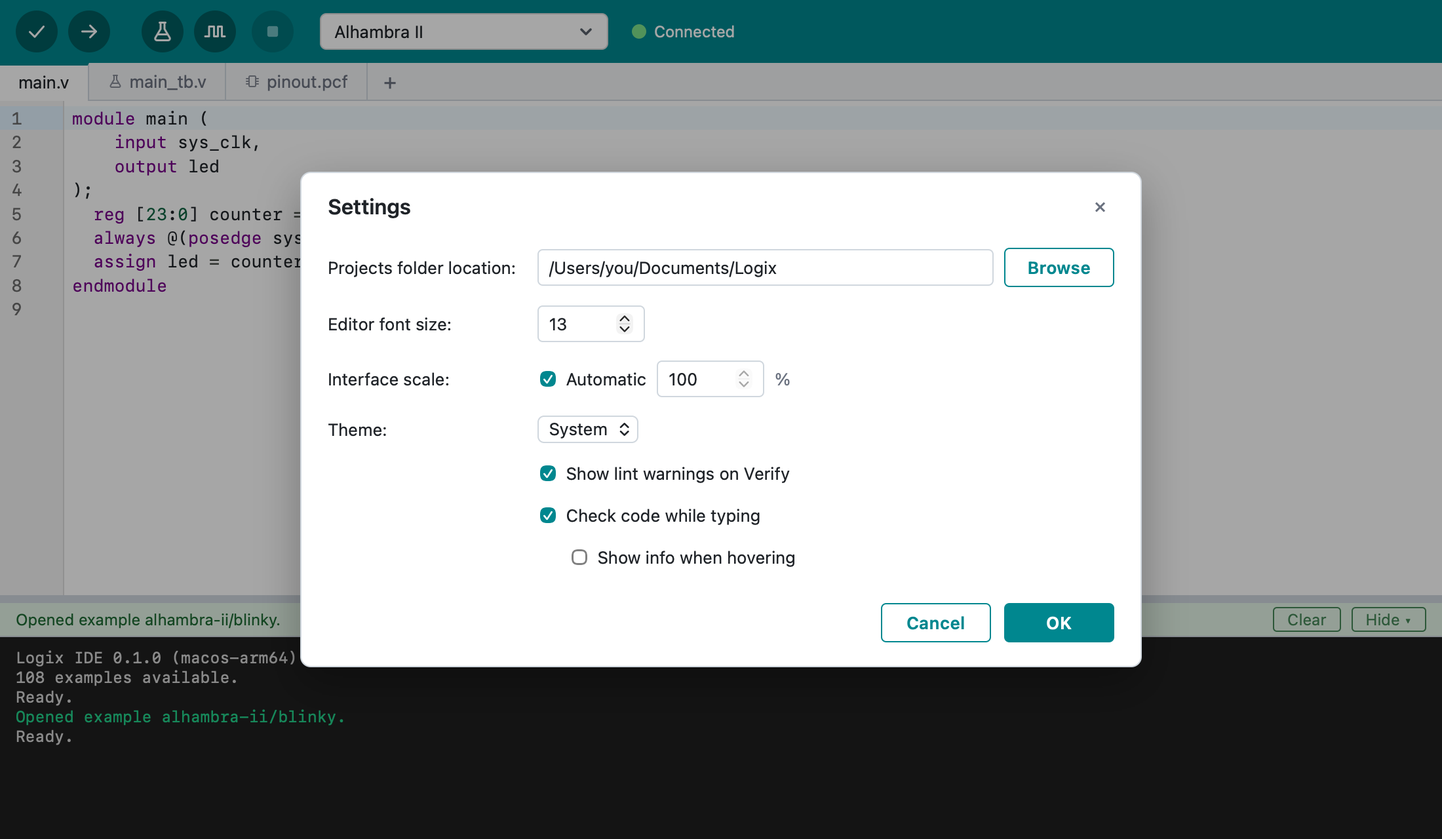
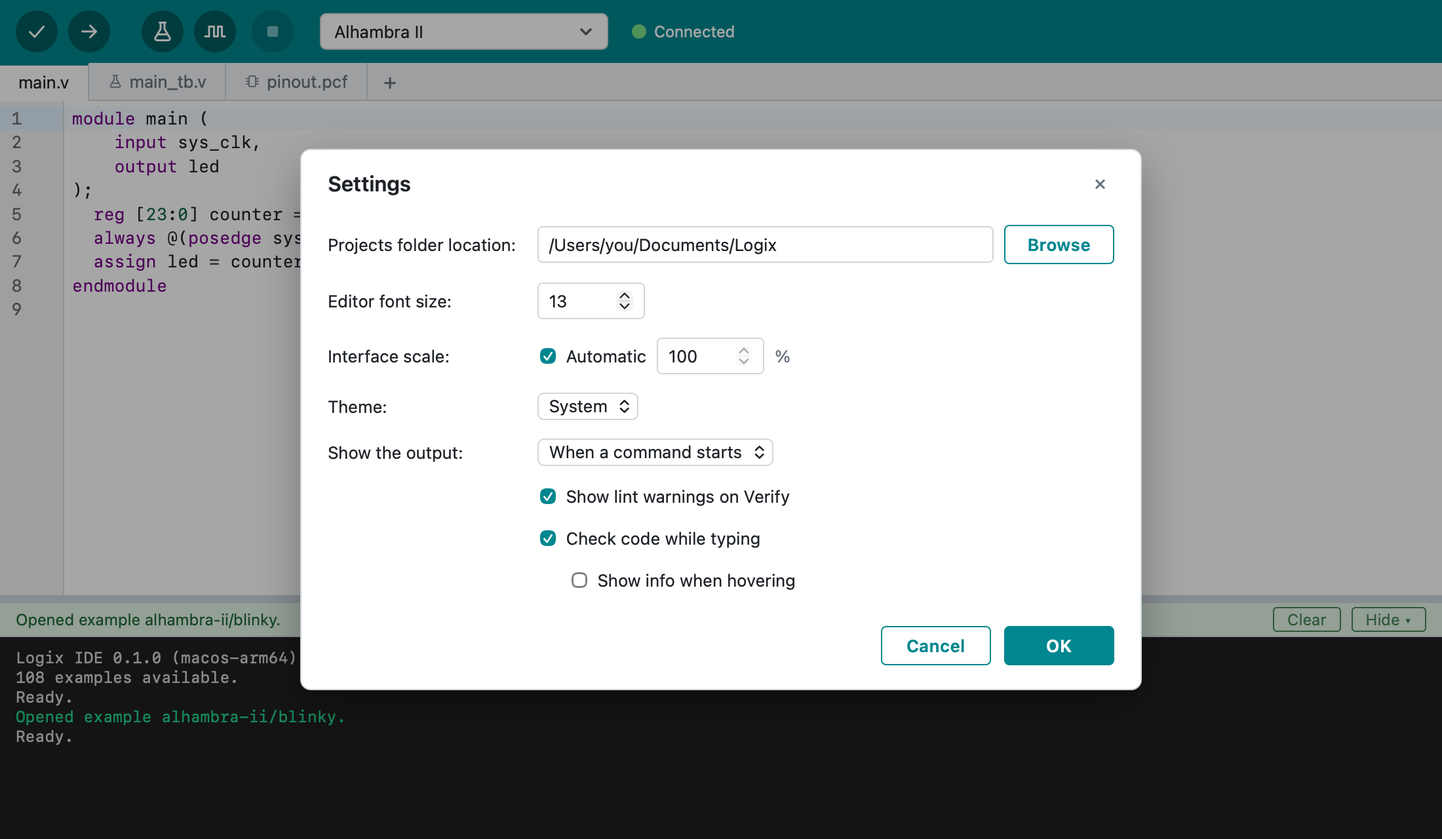
Setting: Show the output (when a command starts / only on errors / never)

diff --git a/ui/src/App.svelte b/ui/src/App.svelte
@@ -67,6 +67,7 @@
     clampConsoleHeight,
     DEFAULT_CONSOLE_HEIGHT,
     dragHidesConsole,
+    outputComesBack,
   } from "./lib/layout";
 
   const MAX_CONSOLE_LINES = 5000;
@@ -169,9 +170,14 @@
     }
   }
 
-  /** Shows the output, e.g. when a build starts or something fails. */
-  function showOutput() {
-    setConsoleVisible(true);
+  /**
+   * Shows the hidden output by itself when a command starts or something
+   * fails, as the "Show the output" setting says.
+   */
+  function showOutput(reason: "command" | "error") {
+    if (outputComesBack(prefs?.showOutput ?? "onCommand", reason)) {
+      setConsoleVisible(true);
+    }
   }
 
   // Keep the split valid when the window (or banner) changes size.
@@ -277,7 +283,7 @@
       const err = toUserError(e);
       setupError = err.message;
       log(`Error: ${err.details}`);
-      showOutput();
+      showOutput("error");
     }
   }
 
@@ -570,7 +576,7 @@
       // Old markers in this file no longer match its lines.
       const others = shownDiagnostics.filter((d) => d.file !== file);
       if (!result.ok || result.text === null) {
-        showOutput();
+        showOutput("error");
         showDiagnostics([...others, ...result.diagnostics]);
         const first = firstLocated(result.diagnostics);
         const why = first ?? result.diagnostics[0];
@@ -792,7 +798,7 @@
     taskStep = null;
     status = { text: runningText(task), kind: "info" };
     consoleLines = [];
-    showOutput();
+    showOutput("command");
     const which = testbench ? ` (${testbench})` : "";
     log(`${VERB[task]} ${p.name}${which} for ${boardName(board)}…`);
     try {
@@ -825,6 +831,7 @@
         diagram = { svg: outcome.graphSvg, module: testbench ?? "main" };
       }
       showDiagnostics(outcome.diagnostics);
+      if (!outcome.ok && !outcome.cancelled) showOutput("error");
       status = {
         text: outcomeText(task, outcome),
         kind: outcome.ok ? "ok" : outcome.cancelled ? "info" : "error",
@@ -841,6 +848,7 @@
       const err = toUserError(e);
       status = { text: err.message, kind: "error" };
       log(`Error: ${err.details}`);
+      showOutput("error");
     } finally {
       running = null;
       taskStep = null;

diff --git a/ui/e2e/app.e2e.ts b/ui/e2e/app.e2e.ts
@@ -451,6 +451,28 @@ test("the output can be hidden and comes back for a build", async ({ page }) => 
   await expect(status(page)).toContainText("Build succeeded");
 });
 
+test("the output comes back only on errors if the setting says so", async ({ page }) => {
+  await start(page);
+  await menu(page, "settings");
+  const dialog = page.getByRole("dialog", { name: "Settings" });
+  await expect(dialog.getByLabel("Show the output:")).toHaveValue("onCommand");
+  await dialog.getByLabel("Show the output:").selectOption("onError");
+  await dialog.getByRole("button", { name: "OK" }).click();
+  await expect(dialog).toBeHidden();
+
+  await page.getByRole("button", { name: /Hide/ }).click();
+  await expect(output(page)).toBeHidden();
+  // A build that succeeds leaves it hidden...
+  await page.getByTitle(/^Verify/).click();
+  await expect(status(page)).toContainText("Build succeeded");
+  await expect(output(page)).toBeHidden();
+  // ...and one that fails brings it back.
+  await typeAtStart(page, "oops\n");
+  await page.getByTitle(/^Verify/).click();
+  await expect(status(page)).toContainText("Build failed");
+  await expect(output(page)).toBeVisible();
+});
+
 test("dragging the divider to the bottom hides the output", async ({ page }) => {
   await start(page);
   const divider = page.locator(".divider");

diff --git a/ui/src/lib/PreferencesDialog.svelte b/ui/src/lib/PreferencesDialog.svelte
@@ -4,7 +4,7 @@
   OK.
 -->
 <script lang="ts">
-  import type { Preferences, Theme } from "./backend";
+  import type { Preferences, ShowOutput, Theme } from "./backend";
 
   let {
     initial,
@@ -36,6 +36,8 @@
   let liveChecking = $state(initial.liveChecking);
   // svelte-ignore state_referenced_locally
   let hoverInfo = $state(initial.hoverInfo);
+  // svelte-ignore state_referenced_locally
+  let showOutput = $state<ShowOutput>(initial.showOutput);
 
   let error = $state<string | null>(null);
   let saving = $state(false);
@@ -55,6 +57,7 @@
       lintOnVerify,
       liveChecking,
       hoverInfo,
+      showOutput,
     });
     saving = false;
     if (!error) onClose();
@@ -139,6 +142,15 @@
           <option value="system">System</option>
           <option value="light">Light</option>
           <option value="dark">Dark</option>
+        </select>
+      </div>
+
+      <label for="pref-show-output">Show the output:</label>
+      <div class="control">
+        <select id="pref-show-output" bind:value={showOutput}>
+          <option value="onCommand">When a command starts</option>
+          <option value="onError">Only on errors</option>
+          <option value="never">Never automatically</option>
         </select>
       </div>
 

diff --git a/ui/src/lib/layout.test.ts b/ui/src/lib/layout.test.ts
@@ -4,6 +4,7 @@ import {
   COLLAPSE_CONSOLE_HEIGHT,
   dragHidesConsole,
   MIN_CONSOLE_HEIGHT,
+  outputComesBack,
   MIN_EDITOR_HEIGHT,
 } from "./layout";
 
@@ -31,5 +32,16 @@ describe("dragHidesConsole", () => {
   it("keeps it at the minimum height above that", () => {
     expect(dragHidesConsole(COLLAPSE_CONSOLE_HEIGHT)).toBe(false);
     expect(dragHidesConsole(MIN_CONSOLE_HEIGHT)).toBe(false);
+  });
+});
+
+describe("outputComesBack", () => {
+  it("follows the Show the output setting", () => {
+    expect(outputComesBack("onCommand", "command")).toBe(true);
+    expect(outputComesBack("onCommand", "error")).toBe(true);
+    expect(outputComesBack("onError", "command")).toBe(false);
+    expect(outputComesBack("onError", "error")).toBe(true);
+    expect(outputComesBack("never", "command")).toBe(false);
+    expect(outputComesBack("never", "error")).toBe(false);
   });
 });

diff --git a/ui/src/lib/layout.ts b/ui/src/lib/layout.ts
@@ -1,3 +1,5 @@
+import type { ShowOutput } from "./backend";
+
 /** Smallest console and editor heights (px) the divider allows. */
 export const MIN_CONSOLE_HEIGHT = 60;
 export const MIN_EDITOR_HEIGHT = 80;
@@ -29,4 +31,14 @@ export function clampConsoleHeight(
     areaHeight - dividerHeight - MIN_EDITOR_HEIGHT,
   );
   return Math.round(Math.min(max, Math.max(MIN_CONSOLE_HEIGHT, requested)));
+}
+
+/**
+ * Whether the hidden output comes back by itself: when a command starts
+ * (Verify, Upload, Run Tests, Simulate), or when something fails, per the
+ * "Show the output" setting.
+ */
+export function outputComesBack(when: ShowOutput, reason: "command" | "error"): boolean {
+  if (when === "never") return false;
+  return reason === "error" || when === "onCommand";
 }

diff --git a/ui/src/lib/backend.ts b/ui/src/lib/backend.ts
@@ -179,7 +179,15 @@ export interface Preferences {
   liveChecking: boolean;
   /** Whether hovering over a name shows info (when liveChecking). */
   hoverInfo: boolean;
+  /** When the hidden output comes back by itself. */
+  showOutput: ShowOutput;
 }
+
+/**
+ * When the hidden output comes back by itself: when a command starts (and
+ * on errors), only when one fails, or never (only by hand).
+ */
+export type ShowOutput = "onCommand" | "onError" | "never";
 
 export interface ExampleList {
   examples: Example[];

diff --git a/ui/e2e/fakeBackend.ts b/ui/e2e/fakeBackend.ts
@@ -90,6 +90,7 @@ let preferences: Real.Preferences = {
   lintOnVerify: true,
   liveChecking: true,
   hoverInfo: false,
+  showOutput: "onCommand",
 };
 
 const handlers: {

diff --git a/src-tauri/src/settings.rs b/src-tauri/src/settings.rs
@@ -34,6 +34,8 @@ pub struct Settings {
     pub live_checking: Option<bool>,
     #[serde(default, skip_serializing_if = "Option::is_none")]
     pub hover_info: Option<bool>,
+    #[serde(default, skip_serializing_if = "Option::is_none")]
+    pub show_output: Option<ShowOutput>,
     /// Unknown settings (e.g. from a newer version) are kept.
     #[serde(flatten)]
     extra: serde_json::Map<String, serde_json::Value>,
@@ -46,6 +48,19 @@ pub enum Theme {
     System,
     Light,
     Dark,
+}
+
+/// When the output (console) comes back by itself if it's hidden.
+#[derive(Debug, Clone, Copy, PartialEq, Eq, Serialize, Deserialize)]
+#[serde(rename_all = "camelCase")]
+pub enum ShowOutput {
+    /// When Verify, Upload, Run Tests or Simulate starts, and on errors
+    /// (the default, as in the Arduino IDE).
+    OnCommand,
+    /// Only when a command fails.
+    OnError,
+    /// Never: only by hand (Show, View > Toggle Output, dragging).
+    Never,
 }
 
 /// The preferences as the Settings dialog shows them, defaults filled in.
@@ -66,6 +81,8 @@ pub struct Preferences {
     /// Whether hovering over a name shows info about it (when live
     /// checking is on).
     pub hover_info: bool,
+    /// When the hidden output comes back by itself.
+    pub show_output: ShowOutput,
 }
 
 pub const DEFAULT_FONT_SIZE: u32 = 13;
@@ -86,6 +103,7 @@ impl Settings {
             lint_on_verify: self.lint_on_verify.unwrap_or(true),
             live_checking: self.live_checking.unwrap_or(true),
             hover_info: self.hover_info.unwrap_or(false),
+            show_output: self.show_output.unwrap_or(ShowOutput::OnCommand),
         }
     }
 
@@ -122,6 +140,8 @@ impl Settings {
         self.lint_on_verify = (!prefs.lint_on_verify).then_some(false);
         self.live_checking = (!prefs.live_checking).then_some(false);
         self.hover_info = prefs.hover_info.then_some(true);
+        self.show_output =
+            (prefs.show_output != ShowOutput::OnCommand).then_some(prefs.show_output);
         Ok(())
     }
 }
@@ -265,6 +285,7 @@ mod tests {
             (13, None, Theme::System, true)
         );
         assert_eq!((p.live_checking, p.hover_info), (true, false));
+        assert_eq!(p.show_output, ShowOutput::OnCommand);
 
         let changed = Preferences {
             projects_dir: PathBuf::from("/Users/a/fpga"),
@@ -274,13 +295,17 @@ mod tests {
             lint_on_verify: false,
             live_checking: false,
             hover_info: true,
+            show_output: ShowOutput::OnError,
         };
         s.set_preferences(&changed, default_dir).unwrap();
         assert_eq!(s.preferences(default_dir), changed);
+        let json = serde_json::to_value(&s).unwrap();
+        assert_eq!(json["showOutput"], "onError");
 
         // Back to the defaults: nothing is stored.
         s.set_preferences(&p, default_dir).unwrap();
         assert!(s.projects_dir.is_none() && s.editor_font_size.is_none() && s.theme.is_none());
+        assert!(s.show_output.is_none());
     }
 
     #[test]

diff --git a/CLAUDE.md b/CLAUDE.md
@@ -181,7 +181,7 @@ All Tauri commands are in `commands.rs`, registered in `lib.rs` and wrapped in `
 ## Files Logix writes
 
 - **`logix-ide.toml`** (in the project): `board = "<board id>"`, after a first line `# Logix IDE project settings.` in new files. **Decided** (with reasons): named for the IDE, since each Open Logix frontend owns its project model (a shared `logix.*` could collide with other frontends' files); TOML because it allows comments, and Logix edits it with `toml_edit`, which changes only its own values and keeps the user's comments, layout and other settings (JSONC would make that harder). Projects from before (with `logix.json`) aren't supported (the user's decision: pre-release).
-- **`~/.logix/`**: `engine-bin/` (the unpacked engine package plus `download-metadata.json` with its source URL; a different pinned URL triggers a re-download), `engine-tmp/` (its download and unpacking), `engine/` (the engine folder, owned by the engine: packages, logs, scratch), `build/` (Verify etc.; the engine's output in `_build/logix/`), `example/` (the last opened example), `format/` (Auto Format), `logs/`, and `settings.json`: `lastProject`, `recentProjects`, `lastBoard`, `projectsDir`, `editorFontSize` (default 13, 8 to 32), `uiScale` (percent, 50 to 300; unset means automatic), `theme`, `lintOnVerify`, `liveChecking`, `hoverInfo`.
+- **`~/.logix/`**: `engine-bin/` (the unpacked engine package plus `download-metadata.json` with its source URL; a different pinned URL triggers a re-download), `engine-tmp/` (its download and unpacking), `engine/` (the engine folder, owned by the engine: packages, logs, scratch), `build/` (Verify etc.; the engine's output in `_build/logix/`), `example/` (the last opened example), `format/` (Auto Format), `logs/`, and `settings.json`: `lastProject`, `recentProjects`, `lastBoard`, `projectsDir`, `editorFontSize` (default 13, 8 to 32), `uiScale` (percent, 50 to 300; unset means automatic), `theme`, `lintOnVerify`, `liveChecking`, `hoverInfo`, `showOutput` (`onCommand` default, `onError`, `never`).
 - **No-pins `main.v`** (`bare::NO_PINS_MAIN`, for boards without a starter example): a comment that the top module must be named `main` and that a pin file is needed, then `module main` with ports `input CLK` and `output LED0` and "Your design goes here."
 - Reserved names that are never project files: `logix-ide.toml`, `apio.ini` (Apio's project file, in projects made with Apio), `_build`.
 
@@ -201,7 +201,7 @@ All Tauri commands are in `commands.rs`, registered in `lib.rs` and wrapped in `
 
 What the tests check (keep these when regenerating; add to them with new features):
 
-- **UI end-to-end** (`ui/e2e/app.e2e.ts`): the engine's package install progress in the status bar (`/?engineSetup` holds the fake setup there until `__fake.finishSetup()`); the start screen, New Project (an empty design), Close Project back to the start screen with recent projects (`__fake.recents`; File > Open Recent > Clear Menu empties them, via the `recents-changed` menu event; opening one brings its board: the fake's `openProjectAt` gives an `upduino2` project), and a board picked without a project; starts (blinky via the start screen's From Example…) with the tools ready and boards listed; a new project builds right away; a build error is marked in the editor and linked in the output; adding a file as a tab, with name checks; tab icons on testbenches and on the board's kind of pin file only (a `.lpf` on the iCE40 Alhambra II gets none, and says why); Auto Format replaces the text and reports it; picking the current board or another board offers its examples, and the recent projects for it (only for that board); plugged-in boards listed first, with the Connected label; a board's Bare Minimum from the examples; the editor's right-click Comment/Uncomment; file commands enabled only where they work (a testbench: the editor menu's Run This Test; a pin file: Comment/Uncomment with `#` but no Auto Format; no testbenches; no project); selecting and copying the output; hiding the output and its return on a build; dragging the divider to the bottom hides it, Show restores its height, and dragging it up shows it again; the diagram and switching modules; Connected Devices; Settings changing the theme and font size.
+- **UI end-to-end** (`ui/e2e/app.e2e.ts`): the engine's package install progress in the status bar (`/?engineSetup` holds the fake setup there until `__fake.finishSetup()`); the start screen, New Project (an empty design), Close Project back to the start screen with recent projects (`__fake.recents`; File > Open Recent > Clear Menu empties them, via the `recents-changed` menu event; opening one brings its board: the fake's `openProjectAt` gives an `upduino2` project), and a board picked without a project; starts (blinky via the start screen's From Example…) with the tools ready and boards listed; a new project builds right away; a build error is marked in the editor and linked in the output; adding a file as a tab, with name checks; tab icons on testbenches and on the board's kind of pin file only (a `.lpf` on the iCE40 Alhambra II gets none, and says why); Auto Format replaces the text and reports it; picking the current board or another board offers its examples, and the recent projects for it (only for that board); plugged-in boards listed first, with the Connected label; a board's Bare Minimum from the examples; the editor's right-click Comment/Uncomment; file commands enabled only where they work (a testbench: the editor menu's Run This Test; a pin file: Comment/Uncomment with `#` but no Auto Format; no testbenches; no project); selecting and copying the output; hiding the output and its return on a build; dragging the divider to the bottom hides it, Show restores its height, and dragging it up shows it again; with "Show the output: Only on errors", a successful Verify leaves it hidden and a failed one brings it back; the diagram and switching modules; Connected Devices; Settings changing the theme and font size.
 - **UI units** (Vitest, `*.test.ts` next to the code): pin file comment markers, file roles and their tooltips, formatting, ANSI colors and output links, boards grouping, build report summary, devices summary, examples search, the working project, tasks' plain-language messages, the language server helpers, layout.
 - **Rust units** (`cargo test`), in each module: project files and name rules, build folder contents, the examples (every one opens as a project, every board is an engine board), Bare Minimum (every starter gives one), USB board matching, settings, bundle download/metadata, the engine package, progress and setup helpers, platform, logging, menus, and the engine's tasks, formatting and devices. The `#[ignore]`d tests run against a real engine: `real_engine_starts` (MCP session, `get_engine_info`, a tool error) and `real_engine_install_progress` (installs the 8 MB `verible` package and checks the setup gets increasing percentages): `LOGIX_TEST_ENGINE_EXE=<logix-engine> cargo test real_engine -- --ignored`; `real_engine_build` (Verify, a syntax error at its line, Upload ending in `connect_board` without a board, Run Tests passing and failing at the testbench's line, Show Diagram and a missing module, Auto Format of a messy and a broken file; not Simulate, which opens GTKWave), on the alhambra-ii blinky example, which also needs `LOGIX_TEST_ENGINE_FOLDER=<engine folder with packages>`; `real_examples_build` (Verify and Run Tests for every example, Verify for every Bare Minimum; slow), with the same variables; and `capture_fixtures` (writes the fake backend's fixtures; see `ui/e2e/fixtures/README.md`). The engine adapter's units cover the notification routing and `tee` order, the build report, error mapping, testbench endings, the diagram's paths, USB board matching and the console's progress bar collapsing.
 
@@ -221,11 +221,11 @@ Use the current major versions of GitHub's actions (`actions/checkout`, `setup-n
 - **Editor right-click menu** (as in Arduino IDE 2, shorter): Go to Definition (F12), Cut/Copy/Paste/Select All, Comment/Uncomment (Cmd+/), Auto Format; greyed out as in the menu bar (see Items only when they can be used). In a testbench it adds Run This Test and Simulate for that testbench (`run-this-test`, `simulate-this-test`; the menu state's `testbenchOpen`), as on the tab's right-click menu, which keeps them since it works on any tab, open or not; in other files they're hidden rather than greyed out, to keep the menu short. It's a native menu (`menu::show_editor_menu`, command `show_editor_menu`), not HTML, because the system Paste works without WebKit's paste confirmation. Right-click first moves the cursor to the click unless it's inside the selection (`Editor.svelte`). Custom items come back as `menu` events (`go-to-definition`, `toggle-comment`, `auto-format`), which the Edit menu also has. The fake backend records the menu state of the last one in `__fake.editorMenu`.
 - **Select All / Copy in the output**: the output pane is focusable (`tabindex`). Edit > Select All (Cmd+A) is a custom item (`select-all`, not the system one, which selects the whole window): the UI selects all of the focused text field, the output pane (`selectOutput`), or else the editor. Right-click in the output shows a native menu (`menu::show_output_menu`): system Copy, Select All (`output-select-all`), Clear Output (`clear-output`). File links in the output are `<a>` elements (not buttons) so they're selectable and copied with the text.
 - **Links in the output**: `file:line` references to project files (bare file names, not full paths) become links that jump to that line (`addLinks` in `ui/src/lib/ansi.ts`).
-- **Settings** (Logix IDE > Settings…, Cmd+, on macOS; File > Settings… elsewhere), laid out like the Arduino IDE's Preferences (`ui/src/lib/PreferencesDialog.svelte`, Cancel / OK, applied on OK): projects folder location (Arduino's sketchbook location; used by New/Open/Save As through `project::default_projects_root`), editor font size, interface scale (automatic or %), theme (System/Light/Dark), "Show lint warnings on Verify", "Check code while typing" (default on) and, under it, "Show info when hovering" (default off; see Live errors). Stored in `settings.json` (`settings::Preferences`; values equal to the default are stored as unset, and `set_preferences` checks ranges). The backend applies the scale (`set_zoom`) and window theme at startup and on save (`apply_window_preferences`); the UI sets `data-theme` on `<html>` (CSS in `app.css`) and `--editor-font-size`, and passes `dark` to the editor.
+- **Settings** (Logix IDE > Settings…, Cmd+, on macOS; File > Settings… elsewhere), laid out like the Arduino IDE's Preferences (`ui/src/lib/PreferencesDialog.svelte`, Cancel / OK, applied on OK): projects folder location (Arduino's sketchbook location; used by New/Open/Save As through `project::default_projects_root`), editor font size, interface scale (automatic or %), theme (System/Light/Dark), "Show the output" (When a command starts / Only on errors / Never automatically; see Output visibility), "Show lint warnings on Verify", "Check code while typing" (default on) and, under it, "Show info when hovering" (default off; see Live errors). Stored in `settings.json` (`settings::Preferences`; values equal to the default are stored as unset, and `set_preferences` checks ranges). The backend applies the scale (`set_zoom`) and window theme at startup and on save (`apply_window_preferences`); the UI sets `data-theme` on `<html>` (CSS in `app.css`) and `--editor-font-size`, and passes `dark` to the editor.
 - **Help menu**: links to the Logix IDE user docs (see "User documentation"), and Logix IDE Website (the product page) / Logix IDE on GitHub / Report a Problem (`HELP_LINKS` in `menu.rs`, opened with `Platform::open_url`, `https://` only). About Logix IDE (macOS app menu; Help elsewhere) shows the version, the motto, the engine release, the Arduino notice, and links to the product page.
 - **Busy / ready** (status bar): one indicator for everything. `isBusy` in `App.svelte` (setup not ready, a task `running`, Auto Format, or a file `activity`) shows a spinner, and `statusText` shows what's going on; when idle, the last result (`status`) or "Ready.". Slow file operations (opening an example or Bare Minimum, New, Open Recent, Save, the starter upgrade) go through `during(label, work)`, which sets `activity` while they run. Verify and the other actions are disabled while busy (`canRun`).
 - **End of a command's output**: every command the user starts ends its output with its result and then "Ready." (as startup does), the result also in the status bar, green after success and red after an error. Tasks (Verify, Upload, Run Tests, Simulate, Show Diagram) and Auto Format do it with `logDone` (even failed or stopped); file commands (opening an example or Bare Minimum, New, Open, Open Recent, Save, Save As) with `finish(text)` (e.g. "Opened example alhambra-ii/blinky.", "Saved /path.") or `commandFailed(e)` (the error banner, `Error: <details>` in red, then "Ready."); all in `App.svelte`.
-- **Output (console) visibility**: View > Toggle Output (Cmd+J) or the Hide/Show button on the status bar hides the console, leaving the divider and the one-line status bar. Dragging the divider to the bottom does the same, as in VS Code: below `COLLAPSE_CONSOLE_HEIGHT` (40 px, `dragHidesConsole` in `ui/src/lib/layout.ts`) the area shrinks to the status bar while dragging, and on release the output is hidden; Show restores the height it had before that drag. The divider stays with the output hidden (title "Drag up to show the output"), and dragging it up past the same threshold shows the output again at the dragged height. The choice is remembered (`localStorage`, like the console height). The console comes back by itself when Verify, Upload, Run Tests or Simulate starts, and when Auto Format or setup fails (`showOutput()` in `App.svelte`), as in Arduino IDE 2.
+- **Output (console) visibility**: View > Toggle Output (Cmd+J) or the Hide/Show button on the status bar hides the console, leaving the divider and the one-line status bar. Dragging the divider to the bottom does the same, as in VS Code: below `COLLAPSE_CONSOLE_HEIGHT` (40 px, `dragHidesConsole` in `ui/src/lib/layout.ts`) the area shrinks to the status bar while dragging, and on release the output is hidden; Show restores the height it had before that drag. The divider stays with the output hidden (title "Drag up to show the output"), and dragging it up past the same threshold shows the output again at the dragged height. The choice is remembered (`localStorage`, like the console height). The console comes back by itself as the "Show the output" setting says (`showOutput(reason)` in `App.svelte`, rule in `outputComesBack` in `ui/src/lib/layout.ts`): by default when Verify, Upload, Run Tests or Simulate starts and when anything fails, as in Arduino IDE 2; with "Only on errors", only when a task fails (not when it's stopped), Auto Format fails, or setup fails; with "Never automatically", only by hand. The user wasn't sure of the default; it stays the Arduino behavior, since beginners then see the build happen.
 - **Reopening the last project**: `src-tauri/src/settings.rs` keeps IDE settings in `~/.logix/settings.json` (unknown fields preserved). Opening, saving or Save As records the project folder; at startup the UI calls `open_last_project` and shows the start screen if there's none or it can't be loaded (with a console note). File > Close Project clears it (`close_project`; the recent projects stay), so the next start shows the start screen rather than the closed project.
 - **Always a board**: the toolbar always shows a board, with or without a project: the project's, or else `homeBoard` (the last chosen, `last_board`: `lastBoard` in `settings.json`, else `examples::DEFAULT_BOARD`, `alhambra-ii`, FPGAwars' board). Picking one with no project sets `homeBoard` and `lastBoard`; New Project and the examples use it. Only a project opened from disk without a board shows "Select board…".
 - **No project and the start screen** (decided): with no project open (`project === null`: the first start, no last project, or after File > Close Project), the editor area shows the start screen (`welcome` in `App.svelte`, labelled "Start"): "Welcome to Logix IDE", the motto, "Getting the FPGA tools ready…" or a pointer to the setup error while the tools aren't ready, three cards in a row (New Project, Open Project…, From Example…; each an accent-colored line icon, a title and a one-line hint, raised on hover), and up to 5 recent projects (reloaded when the screen appears and on the `recents-changed` menu event that Clear Menu sends; rows with a folder icon, the folder name and, dimmed, its parent path). The screen is top-aligned, with the same space (`--welcome-gap`, 56 px) above the title and between the motto and the cards, and 40 px above the recent projects; the cards are compact (156 px wide). Tabs and editor are hidden (not unmounted), and Verify etc. are disabled. No "Start with Blinky" button (removed, the user's decision): examples are one click away under From Example…. Why a start screen: "New" giving someone else's design (blinky) was confusing, and a single-window app needs a state without a project to close to. Close Project asks to save first (`confirmLeave`), keeps the board as `homeBoard`, clears `lastProject` (`close_project`, so a restart stays on the start screen), and ends with "Closed the project." and "Ready.".

diff --git a/docs/using-logix.md b/docs/using-logix.md
@@ -27,8 +27,9 @@
   links to that line. Select text in it and copy it as usual, or
   right-click for **Copy**, **Select All** and **Clear Output**. Drag the bar above it to resize it. To hide it, drag
   the bar all the way down, click **Hide**, or use **View > Toggle Output**;
-  it comes back with **Show**, by dragging the bar up, and when
-  you Verify, Upload, Run Tests or Simulate.
+  it comes back with **Show**, by dragging the bar up, and by default when
+  you Verify, Upload, Run Tests or Simulate (see **Show the output** in
+  Settings).
 
 ## Projects
 
@@ -155,6 +156,9 @@ opens the folder with Logix's log, to attach to a report (see
 - **Editor font size**.
 - **Interface scale**: make everything bigger or smaller.
 - **Theme**: System, Light or Dark.
+- **Show the output**: when the hidden output comes back by itself: **When
+  a command starts** (Verify, Upload, Run Tests or Simulate; the default),
+  **Only on errors**, or **Never automatically**.
 - **Show lint warnings on Verify**: turn off to skip the lint step.
 - **Check code while typing**: underline syntax errors as you type. On by
   default.
